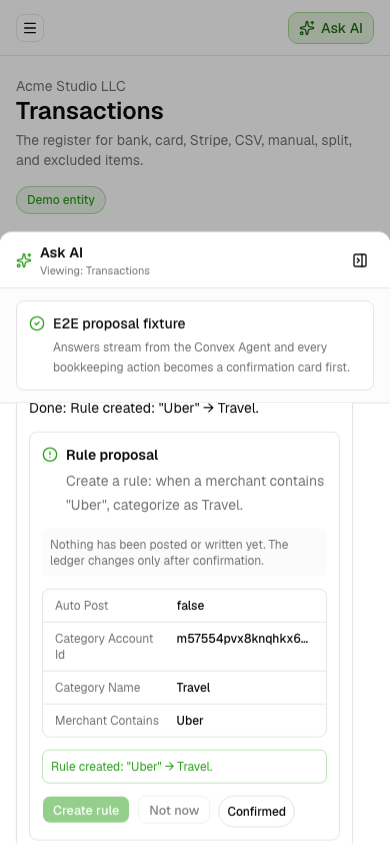
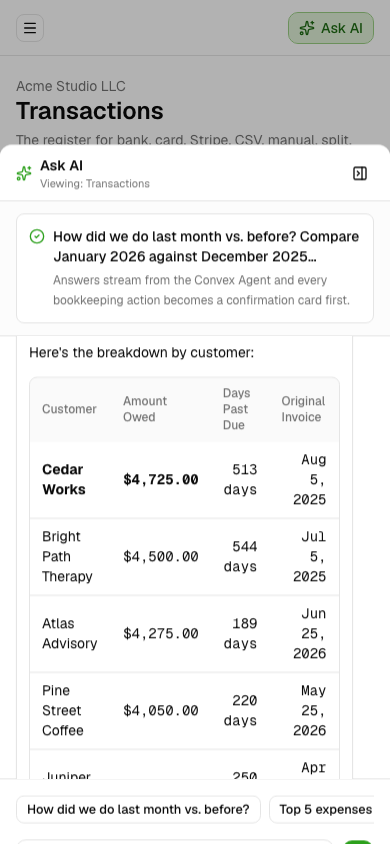
docs(finishing): close evidence index honestly

diff --git a/docs/finishing/completion-report.md b/docs/finishing/completion-report.md
@@ -1125,5 +1125,32 @@ Updated as evidence lands. Starts as inherited reality from the audit.
   left blocked unless external sessions are provided. Do not deploy unless Ansar
   reauthorizes it.
 
+### 2026-06-12 — Batch H5 final cross-check: evidence index + blocked external rails (lead)
+
+- **Changed:** reconciled the H2 acceptance evidence index and the fresh-session
+  handoff after the G4 and B6 completion batches. Row #14 is now **WORKING** for
+  both Ask AI report-answer parity and the B6 live import split; row #15 is
+  **WORKING** for text-PDF raster-to-Bedrock receipts; row #18 is **WORKING**
+  for the final honesty check.
+- **Blocked rows:** rows #12 and #13 are now explicitly **BLOCKED**, not vaguely
+  partial. Plaid still needs a completed hosted sandbox Link session against
+  cloud dev followed by real item sync proof. Stripe still needs a real
+  Stripe CLI/Dashboard test-mode webhook delivered to the cloud `/stripe/webhook`
+  route and a visible invoice/payout update. These external proofs were not
+  available in this no-deploy run.
+- **Evidence / verification:**
+  - Evidence-file existence check over
+    `docs/finishing/evidence/2026-06-12-H2-acceptance-evidence-index.md` -> **no
+    missing linked files**.
+  - `pnpm test:e2e tests/e2e/acceptance-h2-pack.spec.ts` -> **2/2 green
+    real-click**, refreshing the Contacts/Data/Mobile evidence screenshots.
+  - Batch gates: `git diff --check` -> **green**; `pnpm verify` -> **green**
+    (typecheck, lint, build, **151/151 unit**); `npx convex dev --once` ->
+    **green** against cloud dev `ceaseless-mandrill-524`.
+- **Status:** H5 is **WORKING/evidenced**. Overall finishing remains **PARTIAL**
+  only because Plaid hosted-item proof and Stripe webhook delivery proof require
+  external sessions not available here. No Vercel deployment was attempted, per
+  Ansar's instruction.
+
 <!-- Append one dated entry per batch below. Keep WORKING claims tied to a
      green test + screenshot. -->

diff --git a/docs/finishing/evidence/2026-06-12-H2-acceptance-evidence-index.md b/docs/finishing/evidence/2026-06-12-H2-acceptance-evidence-index.md
@@ -12,25 +12,25 @@ coverage stay PARTIAL/BLOCKED.
 | 2 | No public sign-up | SUPERSEDED | `docs/finishing/evidence/2026-06-12-F1-onboarding-dashboard-checklist.png` | Product changed: open-source first-run owner onboarding is now intentional. |
 | 3 | Owner login | WORKING | Dev-auth harness green across current e2e; F1 no-bypass signup proof in `tests/e2e/onboarding.spec.ts`. | Production/password login is not re-proven in this no-deploy run. |
 | 4 | Dashboard | WORKING | `docs/finishing/evidence/2026-06-11-D5-dashboard.png`, `docs/finishing/evidence/2026-06-12-H1-core-dashboard-disposable.png`, `docs/finishing/evidence/2026-06-12-H2-mobile-dashboard.png`, `docs/finishing/evidence/2026-06-12-H4-performance-limits.json` | Broader final pass should still cross-check row links, but dashboard behavior has current desktop + mobile evidence. |
-| 5 | Inbox | WORKING | `tests/e2e/inbox-h2.spec.ts`, `docs/finishing/evidence/2026-06-12-B6-csv-ai-batch-history.png`, `docs/finishing/evidence/2026-06-12-G4-receipts-pdf-image-chip.png`, `docs/finishing/evidence/2026-06-12-H2-mobile-inbox.png`, `docs/finishing/evidence/2026-06-12-H2-inbox-correction-rule.png`, `docs/finishing/evidence/2026-06-12-H2-inbox-batch-selected.png`, `docs/finishing/evidence/2026-06-12-H2-inbox-keyboard-batch.png` | Disposable-business spec covers keyboard J/K, category correction, rule save, confirm/post, and batch confirm. AI import high/low split remains row #14, not this general Inbox row. |
+| 5 | Inbox | WORKING | `tests/e2e/inbox-h2.spec.ts`, `docs/finishing/evidence/2026-06-12-B6-csv-ai-batch-history.png`, `docs/finishing/evidence/2026-06-12-G4-receipts-pdf-image-chip.png`, `docs/finishing/evidence/2026-06-12-H2-mobile-inbox.png`, `docs/finishing/evidence/2026-06-12-H2-inbox-correction-rule.png`, `docs/finishing/evidence/2026-06-12-H2-inbox-batch-selected.png`, `docs/finishing/evidence/2026-06-12-H2-inbox-keyboard-batch.png` | Disposable-business spec covers keyboard J/K, category correction, rule save, confirm/post, and batch confirm. AI import high/low split is covered separately by row #14. |
 | 6 | Transactions | WORKING | `docs/finishing/evidence/2026-06-12-H1-core-register-real-clicks.png`, `docs/finishing/evidence/2026-06-12-H2-mobile-transactions.png` | H2 should still add filter/search/account/category screenshots if the final acceptance pack wants those as separate assertions. |
 | 7 | Invoices & Bills | WORKING | `docs/finishing/evidence/2026-06-12-C1-income-invoices.png`, `docs/finishing/evidence/2026-06-12-C2-composer.png`, `docs/finishing/evidence/2026-06-12-C5-bill-match-picker.png`, `docs/finishing/evidence/2026-06-12-G4-create-expense-receipt.png` | Stripe-hosted invoice proof remains external-test-mode dependent. |
 | 8 | Contacts | WORKING | `tests/e2e/acceptance-h2-pack.spec.ts`, `docs/finishing/evidence/2026-06-12-H2-contacts-profile.png` | Refreshed finishing evidence selects a directory row and asserts the matching profile, default-category rule, and merge affordance. |
 | 9 | Payroll | WORKING | `docs/finishing/evidence/2026-06-11-D4-payroll-run-detail.png` | CSV/print export equality remains a later acceptance enhancement. |
 | 10 | Reports | WORKING | `tests/e2e/reports-payroll.spec.ts`, `tests/e2e/reports-export-h2.spec.ts`, `docs/finishing/evidence/2026-06-11-D1-reports-home.png`, `docs/finishing/evidence/2026-06-11-D2-pnl-viewer.png`, `docs/finishing/evidence/2026-06-11-D3-monthly-review.png`, `docs/finishing/evidence/2026-06-12-H2-report-export-equality.png`, `docs/finishing/evidence/2026-06-12-H4-performance-limits.json` | P&L CSV export equality is automated against visible report totals. Exhaustive per-report CSV parity can be future hardening, not a blocker for this row. |
 | 11 | Data export | WORKING | `tests/e2e/acceptance-h2-pack.spec.ts`, `docs/finishing/evidence/2026-06-12-H2-data-export.png` | JSON dump download is proven by a real browser `download` event. CSV bundle file fan-out is not separately asserted, but report export equality is covered by row #10. |
-| 12 | Plaid sandbox | PARTIAL/BLOCKED | `docs/finishing/evidence/2026-06-12-G1-plaid-link-surface.png`, `docs/finishing/evidence/2026-06-12-G2-plaid-sync-controls.png` | Needs completed hosted Plaid sandbox Link session and real item sync proof. |
-| 13 | Stripe test | PARTIAL/BLOCKED | `docs/finishing/evidence/2026-06-12-G3-stripe-payout-lines.png` | Needs real Stripe CLI/Dashboard test webhook delivered to the cloud route. |
+| 12 | Plaid sandbox | BLOCKED | `docs/finishing/evidence/2026-06-12-G1-plaid-link-surface.png`, `docs/finishing/evidence/2026-06-12-G2-plaid-sync-controls.png` | Code path and fixture/mocked tests are evidenced, but WORKING requires a completed hosted Plaid sandbox Link session against cloud dev, then real item sync proof in the browser. That hosted session was not available in this run. |
+| 13 | Stripe test | BLOCKED | `docs/finishing/evidence/2026-06-12-G3-stripe-payout-lines.png` | Code path and mocked webhook/unit tests are evidenced, but WORKING requires a real Stripe CLI/Dashboard test-mode webhook delivered to the cloud `/stripe/webhook` route and a visible invoice/payout update. That external delivery proof was not available in this run. |
 | 14 | Ask AI | WORKING | `tests/e2e/ask-ai-parity-h2.spec.ts`, `tests/e2e/import-ai-b6.spec.ts`, `docs/finishing/evidence/2026-06-12-H2-ask-ai-five-question-parity.png`, `docs/finishing/evidence/2026-06-12-B6-import-split-posted.png`, `docs/finishing/evidence/2026-06-12-B6-import-split-inbox.png`, `docs/finishing/evidence/2026-06-12-B6-csv-ai-batch-history.png`, `docs/finishing/evidence/2026-06-12-B4-markdown-thread.png`, `docs/finishing/evidence/2026-06-12-B4-confirmation-card.png`, `docs/finishing/evidence/2026-06-12-B5-docked-desktop.png`, `docs/finishing/evidence/2026-06-12-H2-mobile-ask-ai.png`, `docs/finishing/evidence/2026-06-12-H3-ai-eval-settings.png` | Five-question report-answer parity is green against live Bedrock/read-tool traces/report values. B6 live import split is green: clear Adobe software row posts as `decidedBy: ai`; ambiguous adjustment row stays in Inbox with reasoning. H3 accuracy remains an honest quality finding, not an unverified acceptance claim. |
 | 15 | Receipts | WORKING | `tests/e2e/receipts-g4.spec.ts`, `docs/finishing/evidence/2026-06-12-G4-receipts-pdf-image-chip.png`, `docs/finishing/evidence/2026-06-12-G4-create-expense-receipt.png`, `docs/finishing/evidence/2026-06-12-G4-pdf-raster-bedrock-row.png`, `docs/finishing/evidence/2026-06-12-G4-pdf-raster-bedrock-chip.png` | Text-bearing PDF receipts now rasterize first-page extracted text into a PNG Bedrock vision payload, auto-match to an imported outflow, and show the matched receipt chip. Scanned/image-only PDF OCR/rendering is future hardening. |
 | 16 | Mobile | WORKING | `tests/e2e/acceptance-h2-pack.spec.ts`, `docs/finishing/evidence/2026-06-12-H2-mobile-dashboard.png`, `docs/finishing/evidence/2026-06-12-H2-mobile-inbox.png`, `docs/finishing/evidence/2026-06-12-H2-mobile-transactions.png`, `docs/finishing/evidence/2026-06-12-H2-mobile-ask-ai.png` | The required H2 390px pass covers Dashboard, Inbox, Transactions, and Ask AI with no horizontal scroll. Broader module-by-module mobile review is a later hardening item. |
 | 17 | Audit log | WORKING | `tests/e2e/audit-h2.spec.ts`, `docs/finishing/evidence/2026-06-12-E5-audit-filter.png`, `docs/finishing/evidence/2026-06-12-H2-audit-posting-trace.png` | Disposable-business posting proof filters the audit log by the unique merchant and shows the user-visible posting summary. |
-| 18 | Honesty check | WORKING/PARTIAL | `docs/finishing/completion-report.md`, `docs/finishing/whats-left.md`, this index. | Final H5 can close only after H2 screenshots and external Plaid/Stripe rows are resolved or explicitly left blocked. |
+| 18 | Honesty check | WORKING | `docs/finishing/completion-report.md`, `docs/finishing/whats-left.md`, this index. | Final H5 cross-check passed: all linked evidence files in this index exist; rows 12 and 13 are explicitly BLOCKED on external hosted/test-mode proof instead of overclaimed; no Vercel deployment was attempted. |
 
-Summary: A-C are mostly working, but H2 is still PARTIAL because rows
-12, 13, and 18 need either final cross-checking or external Plaid/Stripe inputs.
-Row 14 now has both five-question Ask AI report-answer parity and the B6
-real-Bedrock import high/low split. Rows 8, 11, and 16 were upgraded
+Summary: H2 is still PARTIAL only because rows 12 and 13 are BLOCKED on
+external Plaid/Stripe proof. Row 14 now has both five-question Ask AI
+report-answer parity and the B6 real-Bedrock import high/low split. Row 18 is
+WORKING for the final honesty cross-check. Rows 8, 11, and 16 were upgraded
 only after `tests/e2e/acceptance-h2-pack.spec.ts` passed with real clicks and
 fresh screenshots; row 17 was upgraded after `tests/e2e/audit-h2.spec.ts`
 proved a real posting action in the audit log; row 1 was upgraded after

diff --git a/docs/finishing/whats-left.md b/docs/finishing/whats-left.md
@@ -32,8 +32,7 @@ closeout.
   sandbox item and that item sync is proven end to end; row #4 is still
   **PARTIAL** until a real Stripe CLI/Dashboard test webhook is delivered to the
   deployed route.
-- **Still open:** Plaid hosted-item proof · Stripe webhook delivery proof · H2
-  final evidence-index cross-check ·
+- **Still open:** Plaid hosted-item proof · Stripe webhook delivery proof ·
   prod redeploy only if Ansar reauthorizes it.
 
 ---
@@ -216,11 +215,12 @@ evidence index** at
 #5 Inbox, #8 Contacts, #10 Reports export equality, #11 Data export, #16 Mobile,
 #17 Audit log, row #14 five-question Ask AI report-answer path + B6 live import
 split, and row #15 Receipts text-PDF raster-to-Bedrock path are now evidenced.
-H2 still needs Plaid hosted item proof, Stripe webhook delivery, and a final H5
-evidence-index cross-check before the whole
-acceptance pack can close. H5 docs refresh is **partially done/evidenced**: `README.md`,
-`docs/finishing/how-openbooks-works.md`, and `AGENTS.md` now match shipped
-reality, but final H5 closeout still needs the completed H2 evidence pack. Do
+H2 remains **PARTIAL only for external rows #12 and #13**: Plaid hosted item
+proof and Stripe webhook delivery. H5 docs refresh and final evidence-index
+cross-check are **WORKING/evidenced**: `README.md`,
+`docs/finishing/how-openbooks-works.md`, `AGENTS.md`, this handoff, the
+completion report, and the evidence index now match shipped reality and call out
+the blocked external proof honestly. Do
 **not** deploy to Vercel in this run unless Ansar reauthorizes it; the account
 context changed.
 